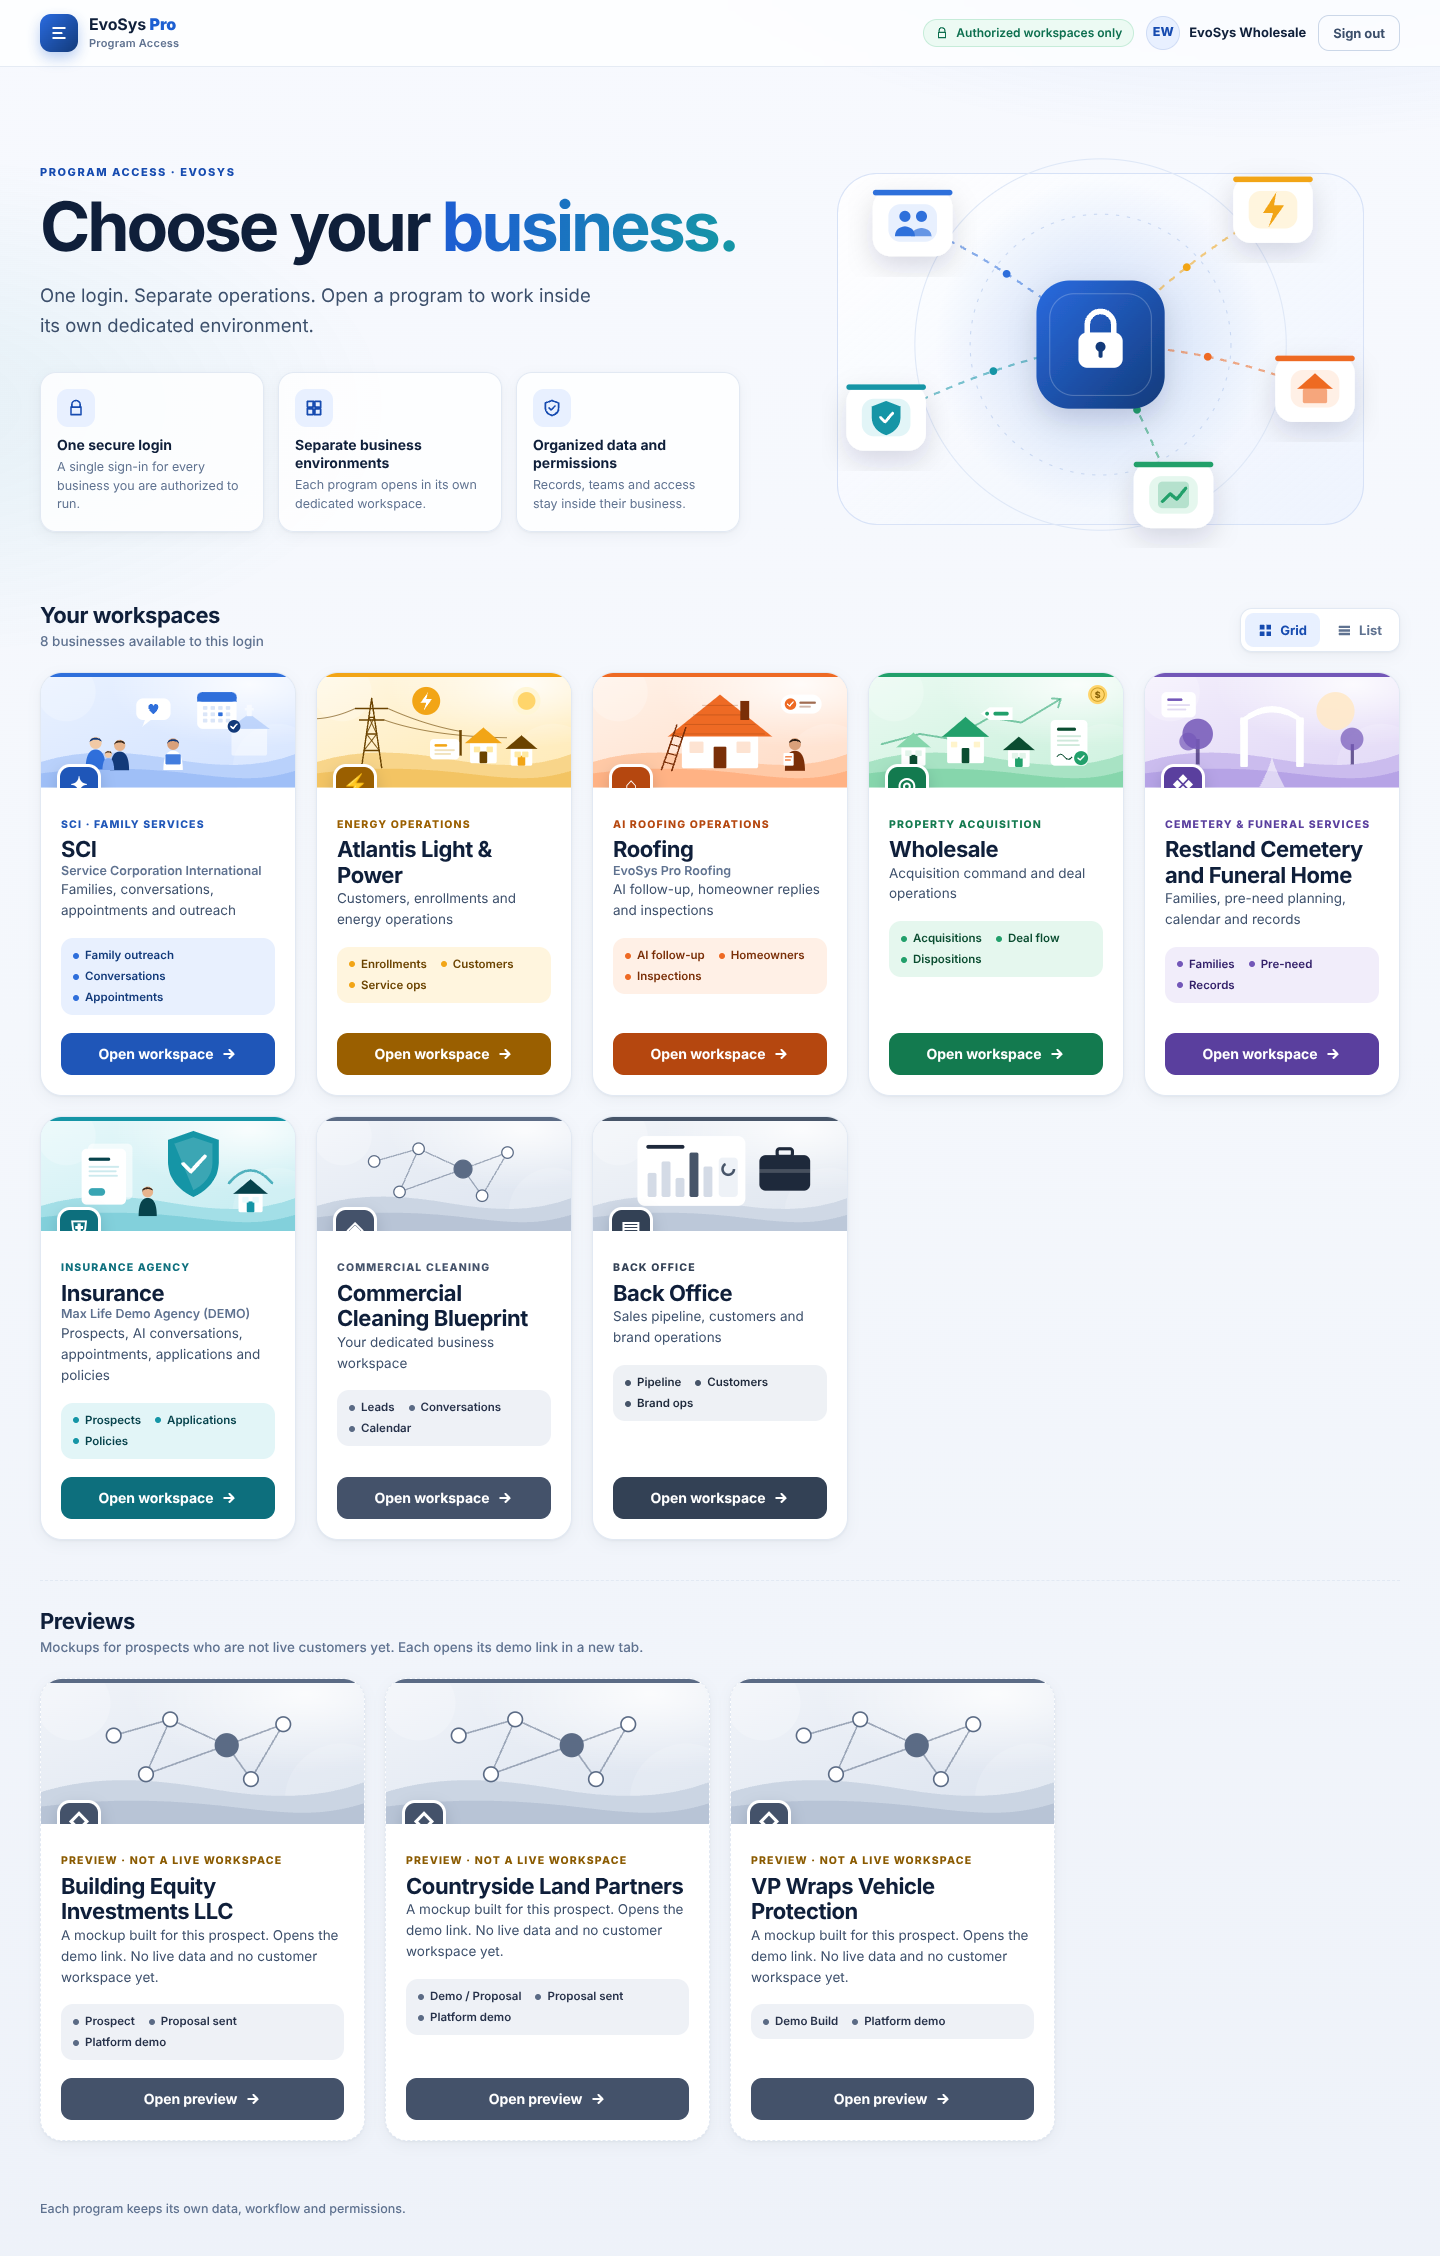
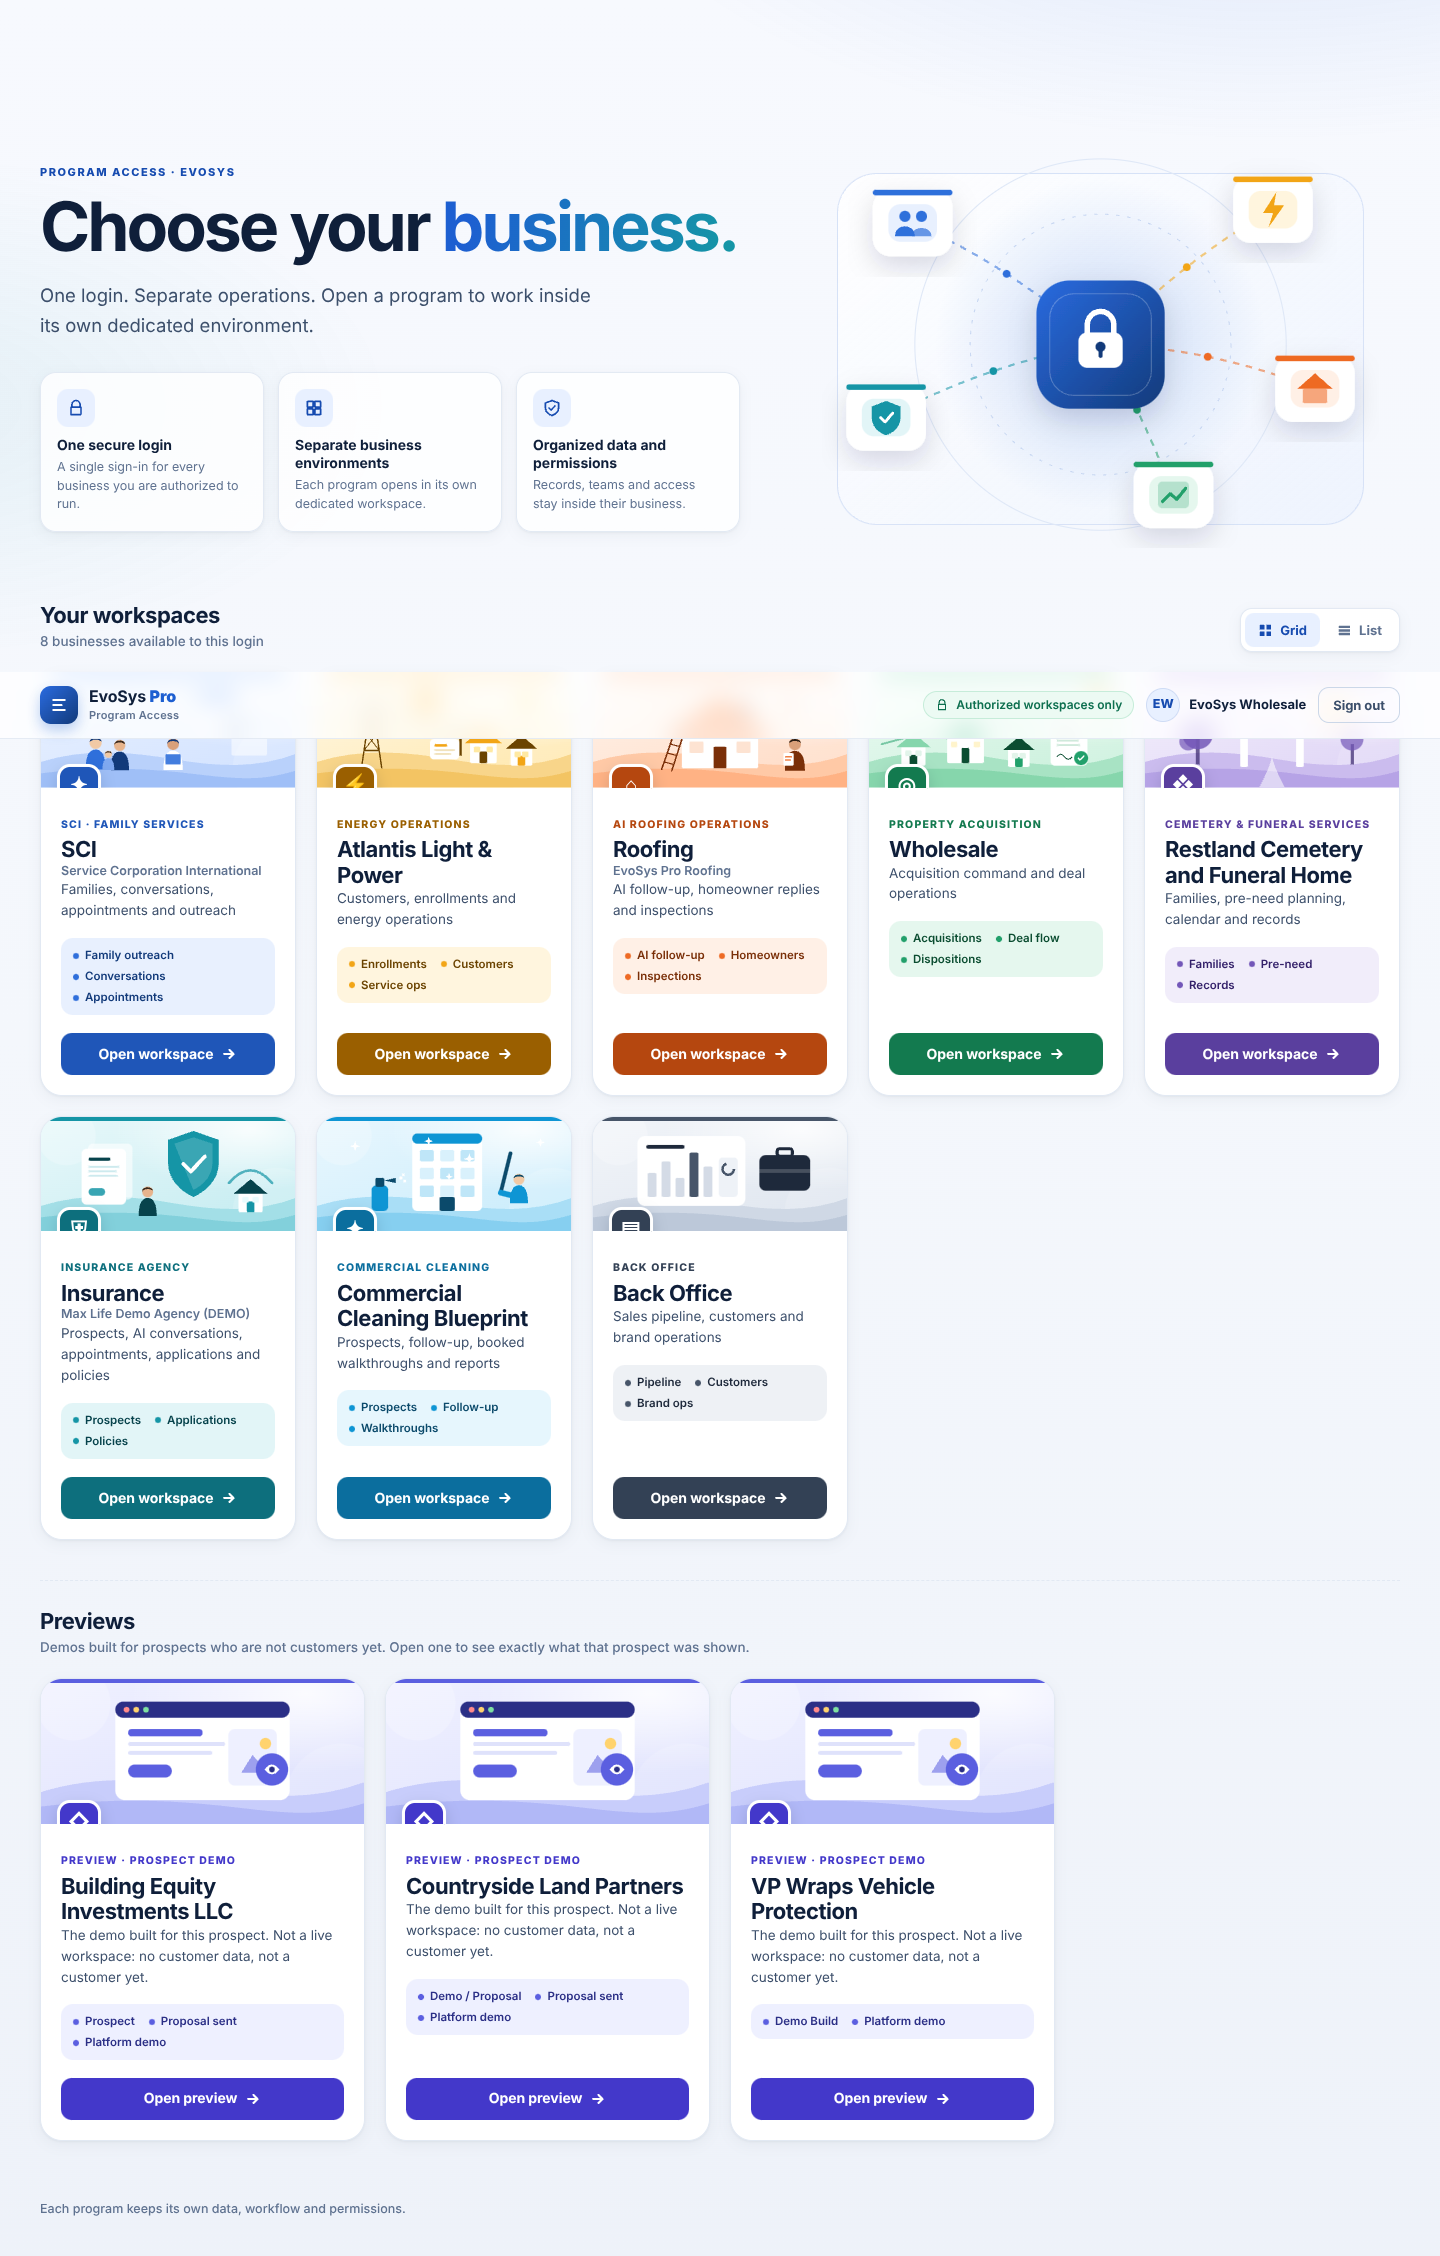
Program Access: previews open reliably; Commercial Cleaning gets its own look
- 'Open preview' is now a real link (same tab), not window.open: a
  script-opened tab is a pop-up, which browsers and the desktop app's
  browser block - the button could look clickable and do nothing. Back
  returns to Program Access.
- Commercial Cleaning: its own colour, card art (building, cleaner, spray
  bottle) and facts (Prospects, Follow-up, Walkthroughs) instead of the
  grey general look.
- Previews: their own bright look and button (no faded/dashed styling),
  still labelled 'PREVIEW · PROSPECT DEMO'.
- Walkthrough 61/61 (real mouse clicks open each demo; Back returns;
  looks checked). Frontend 108/113 (the 5 godTheme failures as on main).

Claude-Session: https://claude.ai/code/session_0163pSw7CaKLAqR4T5nuymug

diff --git a/frontend/src/design/art/WorkspaceArt.jsx b/frontend/src/design/art/WorkspaceArt.jsx
@@ -18,6 +18,8 @@ const PALETTES = {
   funeral:   { sky: ['#f4f0fc', '#ddd2f5'], hill: '#cbbcee', hill2: '#b6a3e6', main: '#7357b8', deep: '#34216a', light: '#ffffff', warm: '#ffe9c9' },
   office:    { sky: ['#f2f5f9', '#dde4ee'], hill: '#cfd8e5', hill2: '#bcc8d9', main: '#475569', deep: '#1e293b', light: '#ffffff', warm: '#e8eef7' },
   general:   { sky: ['#f1f4f9', '#dae2ee'], hill: '#cbd5e3', hill2: '#b8c4d6', main: '#5b6b85', deep: '#27324a', light: '#ffffff', warm: '#eef2f8' },
+  cleaning:  { sky: ['#e9f7fe', '#c7ebfb'], hill: '#a9def6', hill2: '#86cff0', main: '#0e95d4', deep: '#0b4a6b', light: '#ffffff', warm: '#eafaff' },
+  preview:   { sky: ['#f0f1ff', '#dcdffd'], hill: '#c8cdfb', hill2: '#b1b8f7', main: '#5b5fe0', deep: '#2b2f86', light: '#ffffff', warm: '#eef0ff' },
 }
 
 function Frame({ p, id, children }) {
@@ -323,9 +325,73 @@ function GeneralScene({ p, id }) {
   )
 }
 
+// COMMERCIAL CLEANING: an office building with clean, sparkling windows, a
+// cleaner with a mop and a spray bottle - a business, not a generic network.
+function CleaningScene({ p, id }) {
+  const spark = (x, y, s = 1) => (
+    <path key={x + '-' + y} transform={`translate(${x} ${y}) scale(${s})`}
+          d="M0 -9 L2.2 -2.2 L9 0 L2.2 2.2 L0 9 L-2.2 2.2 L-9 0 L-2.2 -2.2Z" fill="#fff" />
+  )
+  return (
+    <Frame p={p} id={id}>
+      <Hills p={p} />
+      <g transform="translate(150 26)">
+        <rect width="110" height="122" rx="8" fill="#fff" />
+        <rect width="110" height="16" rx="8" fill={p.main} />
+        {[0, 1, 2].map(r => [0, 1, 2].map(c => (
+          <rect key={r + '-' + c} x={12 + c * 32} y={26 + r * 28} width="22" height="18" rx="3"
+                fill={(r + c) % 2 ? '#d9f1fc' : '#bfe6f8'} />
+        )))}
+        <rect x="43" y="100" width="24" height="22" rx="3" fill={p.deep} />
+      </g>
+      {spark(176, 38, 0.8)}{spark(240, 66, 1)}{spark(208, 94, 0.7)}
+      <g transform="translate(300 76)">
+        <rect x="-3" y="-22" width="6" height="66" rx="3" fill={p.deep} transform="rotate(14)" />
+        <rect x="-4" y="40" width="34" height="9" rx="4" fill={p.main} transform="rotate(14)" />
+      </g>
+      <Person x={318} y={98} s={0.95} body={p.main} hair={p.deep} />
+      <g transform="translate(86 92)">
+        <rect x="0" y="16" width="26" height="40" rx="7" fill={p.main} />
+        <rect x="6" y="4" width="14" height="14" rx="3" fill={p.deep} />
+        <path d="M20 8 L38 4 L38 12 Z" fill={p.deep} />
+        <circle cx="46" cy="4" r="2.5" fill="#fff" /><circle cx="52" cy="9" r="2" fill="#fff" /><circle cx="50" cy="-1" r="1.6" fill="#fff" />
+      </g>
+      {spark(60, 46, 0.9)}{spark(352, 40, 0.8)}
+    </Frame>
+  )
+}
+
+// PREVIEW: a browser window showing a mockup - something you can open and look
+// at, clearly not a live business.
+function PreviewScene({ p, id }) {
+  return (
+    <Frame p={p} id={id}>
+      <Hills p={p} />
+      <g transform="translate(92 28)">
+        <rect width="216" height="122" rx="12" fill="#fff" />
+        <rect width="216" height="20" rx="10" fill={p.deep} />
+        <circle cx="14" cy="10" r="3.5" fill="#ff8a8a" /><circle cx="26" cy="10" r="3.5" fill="#ffd36e" /><circle cx="38" cy="10" r="3.5" fill="#7ee0a1" />
+        <rect x="16" y="34" width="92" height="9" rx="4" fill={p.main} />
+        <rect x="16" y="50" width="120" height="5" rx="2.5" fill="#dfe2fb" />
+        <rect x="16" y="61" width="104" height="5" rx="2.5" fill="#dfe2fb" />
+        <rect x="16" y="78" width="54" height="16" rx="8" fill={p.main} />
+        <rect x="140" y="34" width="60" height="70" rx="8" fill="#eef0ff" />
+        <path d="M156 88 L170 66 L182 80 L190 72 L198 88 Z" fill={p.main} opacity=".55" />
+        <circle cx="186" cy="52" r="7" fill="#ffd36e" />
+      </g>
+      <g transform="translate(286 112)">
+        <circle r="20" fill={p.main} />
+        <path d="M-9 0 C -4 -8 4 -8 9 0 C 4 8 -4 8 -9 0 Z" fill="#fff" />
+        <circle r="3.5" fill={p.deep} />
+      </g>
+    </Frame>
+  )
+}
+
 const SCENES = {
   sci: SciScene, energy: EnergyScene, roofing: RoofingScene, wholesale: WholesaleScene,
   insurance: InsuranceScene, funeral: FuneralScene, office: OfficeScene, general: GeneralScene,
+  cleaning: CleaningScene, preview: PreviewScene,
 }
 
 export const ART_VARIANTS = Object.keys(SCENES)

diff --git a/frontend/src/design/WorkspaceCard.jsx b/frontend/src/design/WorkspaceCard.jsx
@@ -12,7 +12,7 @@ import './workspaceCard.css'
  * business; its hit area is stretched over the whole card so the card is
  * clickable without nesting interactive elements or adding extra tab stops.
  */
-export default function WorkspaceCard({ item, onOpen, layout = 'grid', actionLabel = 'Open workspace' }) {
+export default function WorkspaceCard({ item, onOpen, layout = 'grid', actionLabel = 'Open workspace', href }) {
   const variant = item.variant || 'general'
   const facts = item.facts || []
   const name = item.display
@@ -33,14 +33,27 @@ export default function WorkspaceCard({ item, onOpen, layout = 'grid', actionLab
           </ul>
         )}
         <div className="ev-wcard-foot">
-          <button type="button" className="ev-btn ev-btn--primary ev-wcard-open"
-                  aria-label={actionLabel + ': ' + name + (item.orgLabel ? ' (' + item.orgLabel + ')' : '')}
-                  onClick={() => onOpen(item)}>
-            {actionLabel}
-            <svg width="16" height="16" viewBox="0 0 16 16" aria-hidden="true" focusable="false">
-              <path d="M3 8h9M8.5 4l4 4-4 4" stroke="currentColor" strokeWidth="2" fill="none" strokeLinecap="round" strokeLinejoin="round" />
-            </svg>
-          </button>
+          {href ? (
+            // A REAL LINK, not window.open: a script-opened tab is a pop-up,
+            // and browsers (and the desktop app's browser) block pop-ups - so
+            // the button looked clickable and did nothing.
+            <a className="ev-btn ev-btn--primary ev-wcard-open" href={href}
+               aria-label={actionLabel + ': ' + name + (item.orgLabel ? ' (' + item.orgLabel + ')' : '')}>
+              {actionLabel}
+              <svg width="16" height="16" viewBox="0 0 16 16" aria-hidden="true" focusable="false">
+                <path d="M3 8h9M8.5 4l4 4-4 4" stroke="currentColor" strokeWidth="2" fill="none" strokeLinecap="round" strokeLinejoin="round" />
+              </svg>
+            </a>
+          ) : (
+            <button type="button" className="ev-btn ev-btn--primary ev-wcard-open"
+                    aria-label={actionLabel + ': ' + name + (item.orgLabel ? ' (' + item.orgLabel + ')' : '')}
+                    onClick={() => onOpen(item)}>
+              {actionLabel}
+              <svg width="16" height="16" viewBox="0 0 16 16" aria-hidden="true" focusable="false">
+                <path d="M3 8h9M8.5 4l4 4-4 4" stroke="currentColor" strokeWidth="2" fill="none" strokeLinecap="round" strokeLinejoin="round" />
+              </svg>
+            </button>
+          )}
         </div>
       </div>
     </article>

diff --git a/frontend/src/pages/program/programAccessModel.js b/frontend/src/pages/program/programAccessModel.js
@@ -25,6 +25,9 @@ const PROGRAMS = {
   insurance: { rank: 6, variant: 'insurance', symbol: '⛨', kind: 'INSURANCE AGENCY',
                summary: 'Prospects, AI conversations, appointments, applications and policies',
                facts: ['Prospects', 'Applications', 'Policies'] },
+  cleaning: { rank: 7, variant: 'cleaning', symbol: '✦', kind: 'COMMERCIAL CLEANING',
+              summary: 'Prospects, follow-up, booked walkthroughs and reports',
+              facts: ['Prospects', 'Follow-up', 'Walkthroughs'] },
   business: { rank: 7, variant: 'general', symbol: '◈', kind: 'BUSINESS OPERATIONS',
               summary: 'Your dedicated business workspace',
               facts: ['Leads', 'Conversations', 'Calendar'] },
@@ -61,7 +64,7 @@ export function programOf(w) {
   if (w.experience === 'insurance' || w.industry === 'insurance') return 'insurance'
   if (w.experience === 'energy' || w.industry === 'energy') return 'energy'
   if (w.industry === 'funeral' || w.industry === 'cemetery') return 'funeral'
-  if (w.industry === 'cleaning') return 'business'
+  if (w.industry === 'cleaning') return 'cleaning'
   return null
 }
 
@@ -144,10 +147,10 @@ export function previewCards(ctx) {
     const display = previewName(p)
     const facts = [p.stage_label, p.proposal_sent ? 'Proposal sent' : null,
                    p.demo_slot === 'platform' ? 'Platform demo' : 'Website concept'].filter(Boolean)
-    out.push({ ...p, organization_id: 'preview:' + p.opportunity_id, program: 'preview', variant: 'general',
-               symbol: '◇', rank: 20, kind: 'PREVIEW · NOT A LIVE WORKSPACE',
+    out.push({ ...p, organization_id: 'preview:' + p.opportunity_id, program: 'preview', variant: 'preview',
+               symbol: '◇', rank: 20, kind: 'PREVIEW · PROSPECT DEMO',
                display, orgLabel: p.contact_name && display !== p.company_name ? p.contact_name : null,
-               summary: 'A mockup built for this prospect. Opens the demo link. No live data and no customer workspace yet.',
+               summary: 'The demo built for this prospect. Not a live workspace: no customer data, not a customer yet.',
                facts })
   }
   return out.sort((a, b) => String(a.display).localeCompare(String(b.display)))

diff --git a/frontend/src/pages/program/ProgramAccessPortal.jsx b/frontend/src/pages/program/ProgramAccessPortal.jsx
@@ -148,13 +148,13 @@ export default function ProgramAccessPortal({ contexts, onChoose, user: userProp
               <div className="pa-toolbar">
                 <div>
                   <h2 id="pa-previews-title">Previews</h2>
-                  <p>Mockups for prospects who are not live customers yet. Each opens its demo link in a new tab.</p>
+                  <p>Demos built for prospects who are not customers yet. Open one to see exactly what that prospect was shown.</p>
                 </div>
               </div>
               <div className={'pa-grid pa-grid--' + view + ' pa-grid--n' + Math.min(previews.length, 5)} role="list" aria-label="Previews">
                 {previews.map(item => (
                   <div role="listitem" key={item.organization_id}>
-                    <WorkspaceCard item={item} onOpen={onChoose} layout={view} actionLabel="Open preview" />
+                    <WorkspaceCard item={item} onOpen={onChoose} layout={view} actionLabel="Open preview" href={item.url} />
                   </div>
                 ))}
               </div>

diff --git a/frontend/src/design/evTokens.css b/frontend/src/design/evTokens.css
@@ -51,6 +51,8 @@
 .ev-ds [data-accent="funeral"]   { --acc: #7357b8; --acc-strong: #5a3f9e; --acc-soft: #f1edfa; --acc-ink: #34216a; }
 .ev-ds [data-accent="office"]    { --acc: #475569; --acc-strong: #334155; --acc-soft: #eef1f5; --acc-ink: #1e293b; }
 .ev-ds [data-accent="general"]   { --acc: #5b6b85; --acc-strong: #44526a; --acc-soft: #eef1f6; --acc-ink: #27324a; }
+.ev-ds [data-accent="cleaning"]  { --acc: #0e95d4; --acc-strong: #0b6e9e; --acc-soft: #e6f6fd; --acc-ink: #0b4a6b; }
+.ev-ds [data-accent="preview"]   { --acc: #5b5fe0; --acc-strong: #4338ca; --acc-soft: #eef0ff; --acc-ink: #2b2f86; }
 
 /* ---- shared primitives ---- */
 .ev-container { width: 100%; max-width: var(--ev-max); margin: 0 auto; padding-left: var(--ev-gutter); padding-right: var(--ev-gutter); box-sizing: border-box; }

diff --git a/frontend/src/pages/program/ProgramAccessPortal.css b/frontend/src/pages/program/ProgramAccessPortal.css
@@ -107,5 +107,3 @@
 
 /* Previews (mockups for open deals): visibly apart from live workspaces. */
 .pa-previews { margin-top: 40px; padding-top: 28px; border-top: 1px dashed var(--ev-line, #d9e2ec); }
-.pa-previews .ev-wcard { border-style: dashed; }
-.pa-previews .ev-wcard-kind { color: #8a5a00; }
